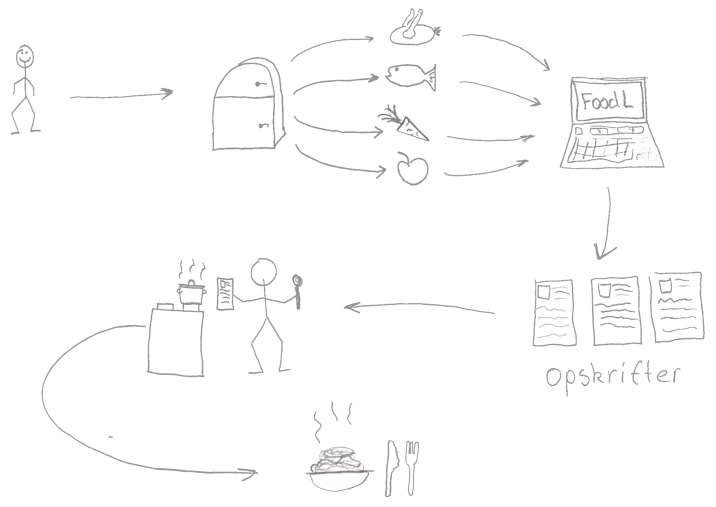
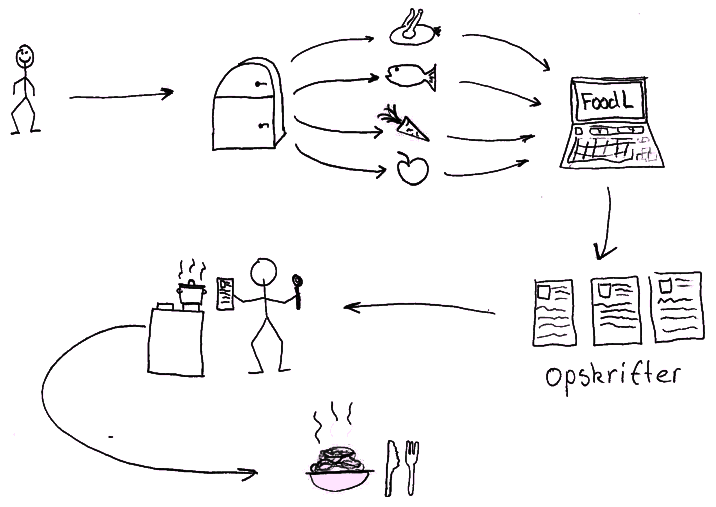
Øget kontrast på rige billeder

diff --git a/report/indhold/7-kvalitetssikring/usability.tex b/report/indhold/7-kvalitetssikring/usability.tex
@@ -1,7 +1,7 @@
 \section{Test af usability}
 \label{sec:usability}
 
-For at teste usability i forbindelse med vores system, har vi benyttet os af Instant Data Analysis-metoden\cite{debida}. Vi har dog kun haft 2 tænke-højt sessions, hvor det anbefalede er 4-6. Først lavede vi en liste over alle de ting vi gerne ville have testpersonerne til at udforske. Det kunne \fx være at skifte sin adgangskode eller at favorisere en opskrift. På baggrund af denne liste konstruerede vi en case bestående af opgaver, som testpersonerne skulle udføre i en bestemt rækkefølge, for netop at komme omkring alle de udvalgte ting vi ville have udforsket. Casen kan ses i \apref{ap:usabilitytest}. Vi udførte de to tænke-højt sessions på informanterne Keld og Merete i nævnte rækkefølge. Vi havde ikke mulighed for at benytte os af Usability Lab på Cassiopaia, da mange andre grupper havde booket en tid, og vi kunne ikke få tiderne til at passe sammen med vores informanters ønsker. I stedet for at bruge Usability Lab til at overvåge processen, installerede vi programmet Teamviewer på den bærbare computer informanten udførte casen på. De 3 personer, der ikke var ude ved informanten kunne fra deres egen bærbar logge på Teamviewer og se hvad der foregik på skærmen, samtidig med at det indbyggede webcam og mikrofon gjorde det muligt at se informantens reaktion og høre ham tænke højt.
+For at teste usability i forbindelse med vores system, har vi benyttet os af Instant Data Analysis-metoden\cite{debida}. Vi har dog kun haft 2 tænke-højt sessions, hvor det anbefalede er 4-6. Først lavede vi en liste over alle de ting vi gerne ville have testpersonerne til at udforske. Det kunne \fx være at skifte sin adgangskode eller at favorisere en opskrift. På baggrund af denne liste konstruerede vi en case bestående af opgaver, som testpersonerne skulle udføre i en bestemt rækkefølge, for netop at komme omkring alle de udvalgte ting vi ville have udforsket. Casen kan ses i \apref{ap:usabilitytest}. Vi udførte de to tænke-højt-sessions på informanterne Keld og Merete i nævnte rækkefølge. Vi havde ikke mulighed for at benytte os af Usability Lab på Cassiopaia, da mange andre grupper havde booket en tid, og vi kunne ikke få tiderne til at passe sammen med vores informanters ønsker. I stedet for at bruge Usability Lab til at overvåge processen, installerede vi programmet Teamviewer på den bærbare computer informanten udførte casen på. De 3 personer, der ikke var ude ved informanten kunne fra deres egen bærbar logge på Teamviewer og se hvad der foregik på skærmen, samtidig med at det indbyggede webcam og mikrofon gjorde det muligt at se informantens reaktion og høre ham tænke højt.
 
 Videoer af de 2 tænke-højt-sessions er blevet uploadet på YouTube \cite{usabilitykjeld} \cite{usabilitymerete}.
 

diff --git a/report/indhold/7-kvalitetssikring/unit.tex b/report/indhold/7-kvalitetssikring/unit.tex
@@ -3,7 +3,7 @@
 For at verificere at programmet opfører sig som vi ønsker, har vi benyttet RSpec, som er et framework Ruby til ``behaviour-driven development''. Vi har ikke benyttet denne udviklingsmodel og har i stedet benyttet frameworket til at skrive unittests med.
 Vi fokuseret på at lave unittest for controllers og helpers, fordi modellen er rene ActiveRecord moduler og al signifikant opførsel i views er implementeret i helpers.
 
-\subsection{CompareStrings}
+\subsection{Unittesting af \methodref{CompareStrings}}
 Vi benyttede en ret simpel fremgangsmåde til at unitteste funktionen \methodref{CompareStrings}. Vi unittestede denne funktion I Ruby, ved at initialisere et array:
 \begin{lstlisting}
 test_cases = [
